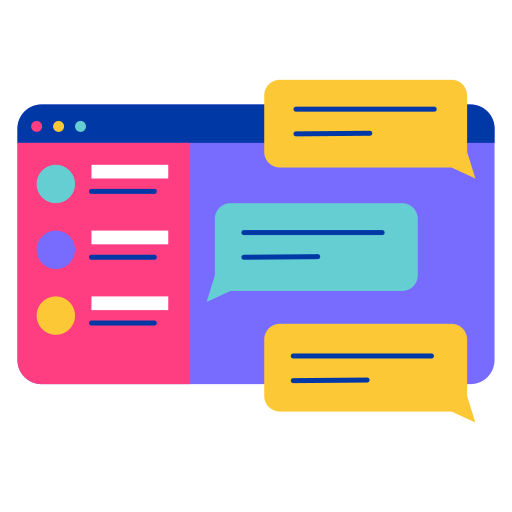
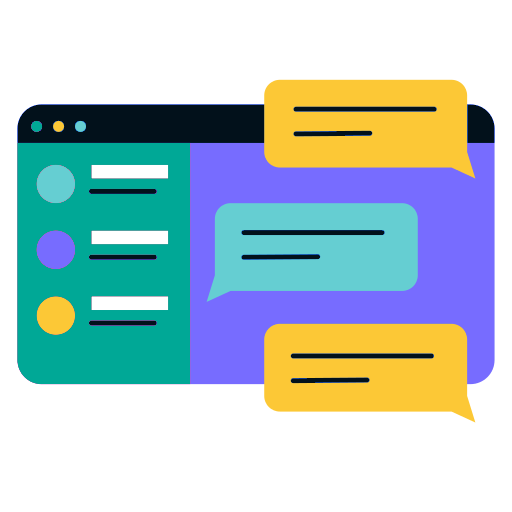
added middle card

diff --git a/pressfeed/pressfeed/templates/home.html b/pressfeed/pressfeed/templates/home.html
@@ -2,19 +2,30 @@
 
 {% block content %}
 
-<!--{% load static %}-->
-<!--<img src="{% static 'pf-splash.jpg' %}">-->
-<div class="row">
-    <div class="col-lg-7 my-auto">
+{% load static %}
+<div class="row" id="top-card">
+    <div class="col-lg-7 my-auto ms-2">
         <h1> Welcome to Pressfeed! </h1>
         <br/>
-        <h4>Looking for a platform to discuss real news sources? </h4>
+        <h4>Looking for a platform to keep you up to date on authentic news sources? </h4>
         <h3>Pressfeed is for you!</h3>
     </div>
     <div class="col-lg-4 d-flex justify-content-center">
-         {% load static %} <img class="img-fluid" id="home-news-phone" src='{% static 'img/news.png' %}'>
+        <img class="img-fluid" id="home-news-phone" src='{% static 'img/news.png' %}'>
+    </div>
+</div>
+<br/>
+<div class="row" id="middle-card">
+    <div class="col-lg-4 d-flex justify-content-center order-2 order-md-1 text-center">
+         <img class="img-fluid" id="home-news-phone" src='{% static 'img/web-chat.png' %}'>
+    </div>
+    <div class="col-lg-7 my-auto me-2 order-1 order-md-2">
+        <h1> Direct Messaging </h1>
+        <br/>
+        <h4>Start sharing articles and chatting with other Pressfeed users. </h4>
     </div>
 </div>
 
-
+<p style="text-align: center"> Images courtesy of <a target="_blank" href="https://www.flaticon.com/free-stickers/news">Flaticon.com</a>
+</p>
 {% endblock %}

diff --git a/pressfeed/pressfeed/templates/base.html b/pressfeed/pressfeed/templates/base.html
@@ -13,7 +13,7 @@
     <nav class="navbar navbar-expand-lg" style="background-color: #02111B">
         <div class="container-fluid">
             <a class="navbar-brand" href="/">Pressfeed</a>
-            <button class="navbar-toggler" type="button" data-bs-toggle="collapse"
+            <button class="navbar-toggler custom-toggler" id="hamburger" type="button" data-bs-toggle="collapse"
                     data-bs-target="#navbarSupportedContent"
                     aria-controls="navbarSupportedContent" aria-expanded="false" aria-label="Toggle navigation">
                 <span class="navbar-toggler-icon"></span>

diff --git a/pressfeed/static/css/stylesheet.css b/pressfeed/static/css/stylesheet.css
@@ -46,6 +46,12 @@ a {
     transform-origin: bottom left;
 }
 
+.custom-toggler {
+    color: white !important;
+    border-color: #00A896 !important;
+    background-color: #00A896;
+}
+
 .dropdown-item:hover {
     color: white;
     background-color: #00A896;
